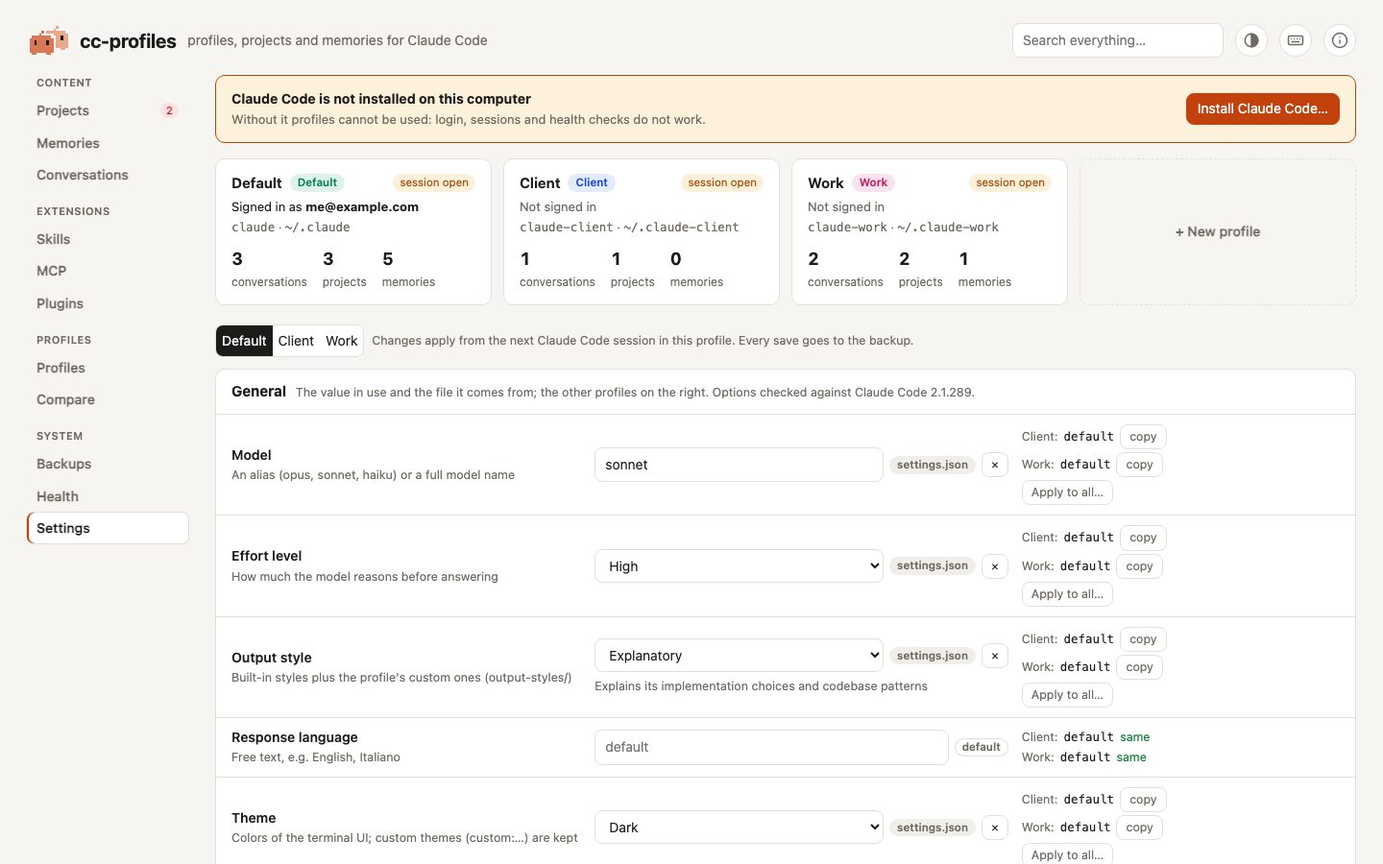
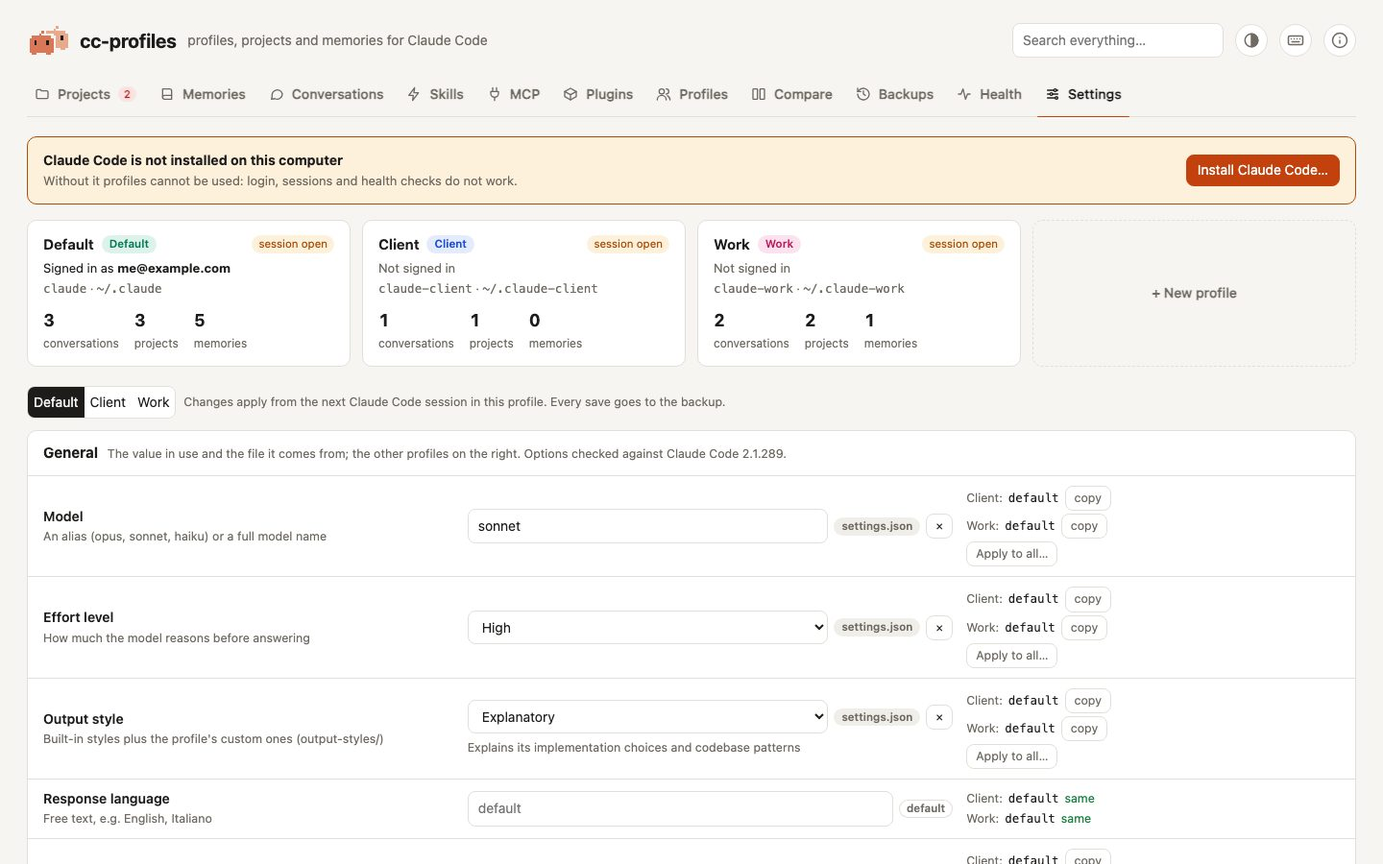
Tabs in one row under the header, like GitHub's underline nav, with a More menu

diff --git a/src/cc_profiles/static/index.html b/src/cc_profiles/static/index.html
@@ -52,7 +52,7 @@ body { margin: 0; background: var(--bg); color: var(--text);
 button, input, select, textarea { font: inherit; color: inherit; }
 .wrap { padding: 24px 28px 80px; }
 header { display: flex; align-items: center; gap: 12px; margin-bottom: 18px; }
-h1 { font-size: 20px; margin: 0; letter-spacing: -0.01em; display: flex; align-items: center; gap: 10px; }
+h1 { font-size: 20px; margin: 0; letter-spacing: -0.01em; display: flex; align-items: center; gap: 10px; white-space: nowrap; flex-shrink: 0; }
 .logo { width: 45px; height: 30px; flex: none; }
 .lg-front { fill: var(--logo); } .lg-back { fill: var(--logo-back); } .lg-eye { fill: var(--logo-eye); }
 header .sub { color: var(--muted); }
@@ -84,34 +84,25 @@ mark { background: var(--accent-soft); color: inherit; border-radius: 3px; paddi
 .live { font-size: 11.5px; color: var(--warn); background: var(--warn-soft); padding: 1px 7px; border-radius: 99px; margin-left: auto; }
 code, .mono { font-family: var(--mono); font-size: 12.5px; }
 
-/* navigation: a sidebar of four groups from 1100px, a group switcher plus one row of tabs below */
-.shell { display: grid; grid-template-columns: 168px minmax(0, 1fr); grid-template-areas: "nav lead" "nav main"; column-gap: 28px; align-items: start; }
-.shell > .lead { grid-area: lead; }
-.shell > .navcol { grid-area: nav; position: sticky; top: 16px; }
-.shell > main { grid-area: main; min-width: 0; }
-nav.tabs { display: grid; gap: 14px; }
-nav.tabs .ngroup { display: grid; gap: 1px; }
-nav.tabs .nlabel { font-size: 11px; font-weight: 600; text-transform: uppercase; letter-spacing: .04em; color: var(--muted); padding: 0 10px 4px; }
-nav.tabs button { display: flex; align-items: center; justify-content: space-between; gap: 6px; text-align: left; background: none; border: 0;
-  padding: 6px 10px; border-radius: 7px; cursor: pointer; color: var(--muted); font-weight: 550; }
-nav.tabs button:hover { color: var(--text); background: var(--panel-2); }
-nav.tabs button.on { color: var(--text); background: var(--panel); box-shadow: inset 2px 0 0 var(--accent), 0 0 0 1px var(--line); }
+/* navigation: an underline nav like GitHub's, right under the header. Tabs that do not
+   fit the window move into the More menu; the active tab always stays in the row. */
+nav.tabs { display: flex; align-items: center; gap: 8px; box-shadow: inset 0 -1px 0 var(--line); margin: -4px 0 20px; }
+.tabrow { display: flex; gap: 8px; min-width: 0; overflow: hidden; }
+nav.tabs button[data-tab], #tabs-more { position: relative; display: flex; align-items: center; gap: 8px; height: 32px; margin: 8px 0;
+  padding: 0 8px; background: none; border: 0; border-radius: 6px; cursor: pointer; color: var(--muted); font-weight: 550; white-space: nowrap; }
+nav.tabs button[data-tab]:hover, #tabs-more:hover, #tabs-more[aria-expanded="true"] { color: var(--text); background: var(--panel-2); }
+nav.tabs button.on { color: var(--text); }
+.tabrow button.on::after, #tabs-more.on::after { content: ""; position: absolute; left: 0; right: 0; bottom: -9px; height: 2px; border-radius: 2px; background: var(--accent); }
+nav.tabs .ti { width: 16px; height: 16px; flex: none; }
 nav.tabs .count { font-size: 11px; background: var(--err-soft); color: var(--err); border-radius: 99px; padding: 0 6px; }
-.seg.ngroups { display: none; }
-.ngroups .gdot { display: inline-block; width: 6px; height: 6px; border-radius: 50%; background: var(--err); margin-left: 5px; vertical-align: 2px; }
+.more { position: relative; flex: none; }
+.more .gdot { display: inline-block; width: 6px; height: 6px; border-radius: 50%; background: var(--err); }
+.moremenu { position: absolute; right: 0; top: calc(100% + 2px); z-index: 15; min-width: 200px; display: grid; gap: 2px; padding: 6px;
+  background: var(--panel); border: 1px solid var(--line); border-radius: 10px; box-shadow: 0 12px 40px rgba(0,0,0,.18); }
+.moremenu[hidden], .more .gdot[hidden] { display: none; }
+nav.tabs .moremenu button[data-tab] { margin: 0; width: 100%; }
+.moremenu button.on { background: var(--panel-2); }
 .vh { position: absolute; width: 1px; height: 1px; overflow: hidden; clip: rect(0 0 0 0); white-space: nowrap; }
-@media (max-width: 1099px) {
-  .shell { display: block; }
-  .shell > .navcol { position: static; }
-  .seg.ngroups { display: flex; margin-bottom: 6px; }
-  .ngroups button { padding: 6px 4px; font-weight: 550; white-space: nowrap; }
-  nav.tabs { display: flex; box-shadow: inset 0 -1px 0 var(--line); margin-bottom: 16px; overflow-x: auto; }
-  nav.tabs .ngroup, nav.tabs .nlabel { display: none; }
-  nav.tabs .ngroup.cur { display: flex; gap: 4px; }
-  nav.tabs button { justify-content: flex-start; padding: 9px 14px; border-radius: 0; border-bottom: 2px solid transparent; white-space: nowrap; }
-  nav.tabs button:hover { background: none; }
-  nav.tabs button.on { background: none; box-shadow: none; border-bottom-color: var(--accent); }
-}
 kbd { font-family: var(--mono); font-size: 12px; padding: 1px 6px; border: 1px solid var(--line); border-bottom-width: 2px; border-radius: 5px; background: var(--panel-2); }
 .keys { display: grid; grid-template-columns: max-content 1fr; gap: 6px 14px; margin: 0; align-items: center; }
 .keys dt { white-space: nowrap; } .keys dd { margin: 0; color: var(--muted); }
@@ -338,43 +329,28 @@ pre.log { background: #141311; color: #e8e6e1; border-radius: 8px; padding: 12px
     <button class="iconbtn" id="about-btn" title="About Claude Code on this computer" aria-label="About Claude Code on this computer">
       <svg viewBox="0 0 24 24" fill="none" stroke="currentColor" stroke-width="2" stroke-linecap="round" stroke-linejoin="round" aria-hidden="true"><circle cx="12" cy="12" r="10"/><path d="M12 16v-4"/><path d="M12 8h.01"/></svg>
     </button></header>
-  <div class="shell">
-    <div class="lead">
-      <div id="notice"></div>
-      <section class="profiles" id="profiles" aria-label="Profiles"></section>
+  <nav class="tabs" id="tabs" aria-label="Sections">
+    <div class="tabrow">
+      <button data-tab="projects" class="on" aria-current="page"><svg class="ti" viewBox="0 0 24 24" fill="none" stroke="currentColor" stroke-width="2" stroke-linecap="round" stroke-linejoin="round" aria-hidden="true"><path d="M3 7a2 2 0 0 1 2-2h4l2 2h8a2 2 0 0 1 2 2v8a2 2 0 0 1-2 2H5a2 2 0 0 1-2-2z"/></svg><span class="tl">Projects</span><span class="count" id="cnt-projects" hidden></span></button>
+      <button data-tab="memories"><svg class="ti" viewBox="0 0 24 24" fill="none" stroke="currentColor" stroke-width="2" stroke-linecap="round" stroke-linejoin="round" aria-hidden="true"><path d="M5 4h11a3 3 0 0 1 3 3v13H8a3 3 0 0 1-3-3z"/><path d="M5 17a3 3 0 0 1 3-3h11"/></svg><span class="tl">Memories</span></button>
+      <button data-tab="conversations"><svg class="ti" viewBox="0 0 24 24" fill="none" stroke="currentColor" stroke-width="2" stroke-linecap="round" stroke-linejoin="round" aria-hidden="true"><path d="M21 12a8 8 0 0 1-11.6 7.1L4 20l1-4.6A8 8 0 1 1 21 12z"/></svg><span class="tl">Conversations</span></button>
+      <button data-tab="skills"><svg class="ti" viewBox="0 0 24 24" fill="none" stroke="currentColor" stroke-width="2" stroke-linecap="round" stroke-linejoin="round" aria-hidden="true"><path d="M13 2 4 14h7l-1 8 9-12h-7z"/></svg><span class="tl">Skills</span></button>
+      <button data-tab="mcp"><svg class="ti" viewBox="0 0 24 24" fill="none" stroke="currentColor" stroke-width="2" stroke-linecap="round" stroke-linejoin="round" aria-hidden="true"><path d="M9 2v6M15 2v6"/><path d="M6 8h12v3a6 6 0 0 1-12 0z"/><path d="M12 17v5"/></svg><span class="tl">MCP</span></button>
+      <button data-tab="plugins"><svg class="ti" viewBox="0 0 24 24" fill="none" stroke="currentColor" stroke-width="2" stroke-linecap="round" stroke-linejoin="round" aria-hidden="true"><path d="M21 8 12 3 3 8v8l9 5 9-5z"/><path d="m3 8 9 5 9-5M12 13v8"/></svg><span class="tl">Plugins</span></button>
+      <button data-tab="profiles"><svg class="ti" viewBox="0 0 24 24" fill="none" stroke="currentColor" stroke-width="2" stroke-linecap="round" stroke-linejoin="round" aria-hidden="true"><circle cx="9" cy="8" r="4"/><path d="M2 21a7 7 0 0 1 14 0"/><path d="M16 4a4 4 0 0 1 0 8M22 21a7 7 0 0 0-4-6.3"/></svg><span class="tl">Profiles</span></button>
+      <button data-tab="compare"><svg class="ti" viewBox="0 0 24 24" fill="none" stroke="currentColor" stroke-width="2" stroke-linecap="round" stroke-linejoin="round" aria-hidden="true"><rect x="3" y="4" width="7" height="16" rx="1"/><rect x="14" y="4" width="7" height="16" rx="1"/></svg><span class="tl">Compare</span></button>
+      <button data-tab="backups"><svg class="ti" viewBox="0 0 24 24" fill="none" stroke="currentColor" stroke-width="2" stroke-linecap="round" stroke-linejoin="round" aria-hidden="true"><path d="M3 12a9 9 0 1 0 3-6.7L3 8"/><path d="M3 3v5h5"/><path d="M12 7v5l3 2"/></svg><span class="tl">Backups</span></button>
+      <button data-tab="health"><svg class="ti" viewBox="0 0 24 24" fill="none" stroke="currentColor" stroke-width="2" stroke-linecap="round" stroke-linejoin="round" aria-hidden="true"><path d="M3 12h4l3-8 4 16 3-8h4"/></svg><span class="tl">Health</span><span class="count" id="cnt-health" hidden></span></button>
+      <button data-tab="settings"><svg class="ti" viewBox="0 0 24 24" fill="none" stroke="currentColor" stroke-width="2" stroke-linecap="round" stroke-linejoin="round" aria-hidden="true"><path d="M4 6h10M18 6h2M4 12h4M12 12h8M4 18h12M20 18h0"/><circle cx="16" cy="6" r="2"/><circle cx="10" cy="12" r="2"/><circle cx="18" cy="18" r="2"/></svg><span class="tl">Settings</span></button>
     </div>
-    <div class="navcol">
-      <!-- narrow screens only: pick a group, its tabs show under it -->
-      <div class="seg ngroups" id="ngroups" role="group" aria-label="Section groups">
-        <button data-group="content" class="on" aria-pressed="true">Content<span class="gdot" hidden><span class="vh"> (needs attention)</span></span></button>
-        <button data-group="extensions" aria-pressed="false">Extensions<span class="gdot" hidden><span class="vh"> (needs attention)</span></span></button>
-        <button data-group="profiles" aria-pressed="false">Profiles<span class="gdot" hidden><span class="vh"> (needs attention)</span></span></button>
-        <button data-group="system" aria-pressed="false">System<span class="gdot" hidden><span class="vh"> (needs attention)</span></span></button>
-      </div>
-      <nav class="tabs" id="tabs" aria-label="Sections">
-        <div class="ngroup cur" data-group="content" role="group" aria-labelledby="ng-content"><div class="nlabel" id="ng-content">Content</div>
-          <button data-tab="projects" class="on" aria-current="page">Projects <span class="count" id="cnt-projects" hidden></span></button>
-          <button data-tab="memories">Memories</button>
-          <button data-tab="conversations">Conversations</button>
-        </div>
-        <div class="ngroup" data-group="extensions" role="group" aria-labelledby="ng-extensions"><div class="nlabel" id="ng-extensions">Extensions</div>
-          <button data-tab="skills">Skills</button>
-          <button data-tab="mcp">MCP</button>
-          <button data-tab="plugins">Plugins</button>
-        </div>
-        <div class="ngroup" data-group="profiles" role="group" aria-labelledby="ng-profiles"><div class="nlabel" id="ng-profiles">Profiles</div>
-          <button data-tab="profiles">Profiles</button>
-          <button data-tab="compare">Compare</button>
-        </div>
-        <div class="ngroup" data-group="system" role="group" aria-labelledby="ng-system"><div class="nlabel" id="ng-system">System</div>
-          <button data-tab="backups">Backups</button>
-          <button data-tab="health">Health <span class="count" id="cnt-health" hidden></span></button>
-          <button data-tab="settings">Settings</button>
-        </div>
-      </nav>
+    <div class="more" hidden>
+      <button id="tabs-more" aria-expanded="false" aria-controls="moremenu">More<span class="gdot" hidden><span class="vh"> (needs attention)</span></span><svg class="ti" viewBox="0 0 24 24" fill="none" stroke="currentColor" stroke-width="2" stroke-linecap="round" stroke-linejoin="round" aria-hidden="true"><path d="m6 9 6 6 6-6"/></svg></button>
+      <div class="moremenu" id="moremenu" hidden></div>
     </div>
-    <main id="main"></main>
-  </div>
+  </nav>
+  <div id="notice"></div>
+  <section class="profiles" id="profiles" aria-label="Profiles"></section>
+  <main id="main"></main>
 </div>
 <div class="toasts" id="toasts"></div>
 
@@ -1708,36 +1684,49 @@ async function deleteBackup(name) {
 }
 
 // ---------- navigation and keyboard shortcuts ----------
-// Tabs sit in four groups: a sidebar on wide screens; below 1100px the group
-// switcher (#ngroups) shows one group's tabs at a time and remembers the last tab of each.
-const NAV = { group: "content", last: {} };
+// Tabs sit in one row, like GitHub's underline nav. The ones that do not fit go into
+// the More menu, in order; the active tab always stays in the row.
+const TAB_BUTTONS = [...document.querySelectorAll("#tabs button[data-tab]")];
 function markTab(tab) {
-  document.querySelectorAll("#tabs button").forEach(b => {
+  TAB_BUTTONS.forEach(b => {
     const on = b.dataset.tab === tab;
     b.classList.toggle("on", on);
     if (on) b.setAttribute("aria-current", "page"); else b.removeAttribute("aria-current");
   });
-  const g = $(`#tabs button[data-tab="${tab}"]`)?.closest(".ngroup")?.dataset.group;
-  if (g) { NAV.group = g; NAV.last[g] = tab; }
-  syncNav();
+  showMore(false);
+  layoutTabs();
 }
-function syncNav() {
-  document.querySelectorAll("#tabs .ngroup").forEach(n => n.classList.toggle("cur", n.dataset.group === NAV.group));
-  document.querySelectorAll("#ngroups button").forEach(b => {
-    const g = b.dataset.group, cur = g === NAV.group;
-    b.classList.toggle("on", cur); b.setAttribute("aria-pressed", cur);
-    $(".gdot", b).hidden = cur || !$(`#tabs .ngroup[data-group="${g}"] .count:not([hidden])`);
-  });
+function layoutTabs() {
+  const nav = $("#tabs"), row = $(".tabrow", nav), menu = $("#moremenu"), more = $(".more", nav);
+  TAB_BUTTONS.forEach(b => row.appendChild(b));
+  more.hidden = row.scrollWidth <= row.clientWidth;
+  if (more.hidden) { menu.replaceChildren(); return; }
+  const gap = 8, avail = nav.clientWidth - more.offsetWidth - gap, w = b => b.offsetWidth + gap;
+  const active = TAB_BUTTONS.find(b => b.classList.contains("on"));
+  let used = active ? w(active) : 0, full = false;
+  const keep = new Set(active ? [active] : []);
+  for (const b of TAB_BUTTONS) {
+    if (b === active) continue;
+    if (!full && used + w(b) <= avail) { keep.add(b); used += w(b); } else full = true;
+  }
+  TAB_BUTTONS.forEach(b => (keep.has(b) ? row : menu).appendChild(b));
+  $("#tabs-more").classList.toggle("on", !!menu.querySelector(".on"));
+  $(".gdot", more).hidden = !menu.querySelector(".count:not([hidden])");
 }
-function openGroup(g) {
-  const tab = NAV.last[g] || $(`#tabs .ngroup[data-group="${g}"] button`).dataset.tab;
-  $(`#tabs button[data-tab="${tab}"]`).click();
+const syncNav = layoutTabs;
+function showMore(open) {
+  $("#moremenu").hidden = !open;
+  $("#tabs-more").setAttribute("aria-expanded", open);
 }
+$("#tabs-more").onclick = e => { e.stopPropagation(); showMore($("#moremenu").hidden); };
+document.addEventListener("click", e => { if (!e.target.closest(".more")) showMore(false); });
+document.addEventListener("keydown", e => { if (e.key === "Escape" && !$("#moremenu").hidden) { showMore(false); $("#tabs-more").focus(); } });
+new ResizeObserver(() => layoutTabs()).observe($("#tabs"));
 // g then a letter: the tab's initial, or a distinctive letter when the initial is taken
 const GO_KEYS = [["p", "projects"], ["m", "memories"], ["c", "conversations"], ["s", "skills"], ["x", "mcp"], ["l", "plugins"],
                  ["r", "profiles"], ["o", "compare"], ["b", "backups"], ["h", "health"], ["t", "settings"]];
 function showKeys() {
-  const name = tab => $(`#tabs button[data-tab="${tab}"]`).firstChild.textContent.trim();
+  const name = tab => $(`#tabs button[data-tab="${tab}"] .tl`).textContent;
   const row = (k, what) => `<dt>${k}</dt><dd>${what}</dd>`;
   modal({ title: "Keyboard shortcuts", cancel: "Close",
     sub: "They work anywhere except while you type in a field or a dialog is open.",
@@ -1749,7 +1738,7 @@ document.addEventListener("keydown", e => {
   if (e.defaultPrevented || e.metaKey || e.ctrlKey || e.altKey || e.isComposing) return;
   const el = e.target;
   if (el.isContentEditable || el.closest?.("input, textarea, select")) return;
-  if (document.querySelector(".modal-bg, .drawer, .popover")) return;
+  if (document.querySelector(".modal-bg, .drawer, .popover, .moremenu:not([hidden])")) return;
   if (goPending && Date.now() - goPending < 1500) {
     goPending = 0;
     const tab = GO_KEYS.find(([k]) => k === e.key.toLowerCase())?.[1];
@@ -1787,7 +1776,6 @@ document.addEventListener("click", async e => {
   if (t.dataset.pexport) return exportProfile(t.dataset.pexport);
   if (t.hasAttribute("data-pimport")) return importProfile();
   if (t.dataset.pext) { S.tab = t.dataset.ext; markTab(S.tab); return loadExt(t.dataset.pext); }
-  if (t.dataset.group) return openGroup(t.dataset.group);
   if (t.dataset.extprof) return loadExt(t.dataset.extprof);
   if (t.dataset.pdel) return deleteProfile(t.dataset.pdel);
   if (t.dataset.restore) return restoreBackup(t.dataset.restore);

diff --git a/tests/test_ui.py b/tests/test_ui.py
@@ -40,7 +40,7 @@ def page_on_sandbox(tmp_path):
 
 def test_every_tab_renders_without_errors(page_on_sandbox):
     page, errors = page_on_sandbox
-    tabs = page.eval_on_selector_all("#tabs button", "bs => bs.map(b => b.dataset.tab)")
+    tabs = page.eval_on_selector_all("#tabs button[data-tab]", "bs => bs.map(b => b.dataset.tab)")
     assert len(tabs) >= 8
     for tab in tabs:
         page.click(f'#tabs button[data-tab="{tab}"]')
@@ -65,24 +65,28 @@ def test_theme_and_about_panels_open(page_on_sandbox):
 
 
 def open_tab(page, tab):
+    if not page.is_visible(f'#tabs button[data-tab="{tab}"]'):  # in the More menu on narrow screens
+        page.click("#tabs-more")
     page.click(f'#tabs button[data-tab="{tab}"]')
     page.wait_for_function("() => { const m = document.querySelector('#main');"
                            " return m.children.length && !m.querySelector('.spinner'); }", timeout=10000)
 
 
-def test_narrow_screens_show_one_group_at_a_time(page_on_sandbox):
+def test_tabs_that_do_not_fit_go_into_the_more_menu(page_on_sandbox):
     page, errors = page_on_sandbox
+    assert not page.is_visible("#tabs-more")  # 1440px: every tab fits
     page.set_viewport_size({"width": 375, "height": 800})
-    assert page.is_visible("#ngroups")
-    visible = page.eval_on_selector_all("#tabs button", "bs => bs.filter(b => b.offsetParent).map(b => b.dataset.tab)")
-    assert visible == ["projects", "memories", "conversations"]
-    page.click('#ngroups [data-group="system"]')
-    page.wait_for_selector('#tabs button[data-tab="backups"].on')
-    assert page.get_attribute('#ngroups [data-group="system"]', "aria-pressed") == "true"
-    assert not page.is_visible('#tabs button[data-tab="projects"]')
+    page.wait_for_selector("#tabs-more")
+    row = lambda: page.eval_on_selector_all(".tabrow button", "bs => bs.map(b => b.dataset.tab)")
+    assert row()[0] == "projects" and "settings" not in row()
+    page.click("#tabs-more")
+    page.click('#moremenu button[data-tab="health"]')
+    page.wait_for_selector('.tabrow button[data-tab="health"].on')  # the active tab moves into the row
+    assert page.is_hidden("#moremenu") and page.get_attribute("#tabs-more", "aria-expanded") == "false"
     assert page.evaluate("document.documentElement.scrollWidth") <= 375  # nothing scrolls sideways
     page.set_viewport_size({"width": 1440, "height": 900})
-    assert not page.is_visible("#ngroups") and page.is_visible('#tabs button[data-tab="projects"]')
+    page.wait_for_selector("#tabs-more", state="hidden")
+    assert len(row()) == 11
     assert errors == []
 
 
@@ -122,7 +126,7 @@ def test_no_serious_accessibility_violations(page_on_sandbox, theme):
     page, errors = page_on_sandbox
     page.evaluate(f"setTheme('{theme}')")
     found = {}
-    for tab in page.eval_on_selector_all("#tabs button", "bs => bs.map(b => b.dataset.tab)"):
+    for tab in page.eval_on_selector_all("#tabs button[data-tab]", "bs => bs.map(b => b.dataset.tab)"):
         open_tab(page, tab)
         found[tab] = axe_violations(page)
     page.keyboard.press("?")
@@ -136,6 +140,7 @@ def test_no_serious_accessibility_violations(page_on_sandbox, theme):
     found["about panel"] = axe_violations(page)
     page.keyboard.press("Escape")
     page.set_viewport_size({"width": 375, "height": 800})
+    page.wait_for_selector("#tabs-more")  # the row has made room for the More menu
     open_tab(page, "health")
     found["phone width"] = axe_violations(page)
     found = {t: v for t, v in found.items() if v}

diff --git a/scripts/make_screenshots.py b/scripts/make_screenshots.py
@@ -65,6 +65,7 @@ class Shooter:
         self.js("document.querySelectorAll('.toast').forEach(t => t.remove());")
 
     def shot(self, path, keep_toasts=False):
+        self.page.mouse.move(VIEW["width"] - 1, VIEW["height"] - 1)  # no hover left on what was clicked
         if not keep_toasts:
             self.settle()
         else:

diff --git a/DESIGN.md b/DESIGN.md
@@ -56,7 +56,7 @@ Rules:
 | Component | Class | Notes |
 |---|---|---|
 | Profile card | `.pcard` | name and badge, monospace meta line, three big numbers; `.live` for "session open". `.pcard.add` is the dashed "+ New profile" variant |
-| Navigation | `.shell`, `nav.tabs#tabs` > `.ngroup` | eleven tabs in four groups (Content, Extensions, Profiles, System), each with an uppercase `.nlabel`. From 1100px a 168px sticky sidebar on the left: the active tab sits on `--panel` with a 2px orange bar at its left. Below, `#ngroups` (a `.seg`) picks the group and only that group's tabs show, in one row with the orange underline; a group remembers its last tab, and a red dot marks a hidden group whose tab has a counter. Tab buttons keep `data-tab` and get `aria-current="page"` when active; a red `.count` shows the number of problems |
+| Navigation | `nav.tabs#tabs` > `.tabrow`, `.more` | an underline nav like GitHub's, right under the header: each tab is a 16px stroke icon (`.ti`) plus its name, muted until hovered (a `--panel-2` rounded background) or active (full text color and a 2px orange underline on the nav's bottom line). Tabs that do not fit move, in order, into the **More** menu (`#moremenu`); the active tab always stays in the row, More is underlined when the active tab is in it, and a red dot marks it when a tab inside has a counter. Tab buttons keep `data-tab` and get `aria-current="page"` when active; a red `.count` shows the number of problems |
 | Keyboard shortcuts | `#keys-btn`, `showKeys()` | `/` search, `g` + letter for a tab, `?` the list in a modal. Ignored while typing in a field or with a modal, drawer or popover open. The header button is hidden on touch screens (`hover: none`) |
 | Filters | `.chip` / `.chip.on` | the active chip is inverted (background `--text`) |
 | Buttons | `.btn` | `.primary` (orange, at most one per row or modal), `.danger` (red text), `.small` |
@@ -102,6 +102,6 @@ Rules:
 
 ## Responsive
 
-There are two breakpoints. At **1100px** the navigation changes: a sidebar with the four groups above it, the group switcher with one row of tabs below it (see *Navigation*); at 375px the switcher and the longest group still fit without scrolling sideways.
+The navigation needs no breakpoint: it measures itself and moves what does not fit into **More** (see *Navigation*), so nothing scrolls sideways even at 375px.
 
 At **820px** the memories grid becomes one column, search fields go full width, settings rows and permission columns stack, and tables scroll horizontally inside their container (the page itself never does). Profile and health cards adapt by themselves with `grid-template-columns: repeat(auto-fit, minmax(…))`.

diff --git a/README.md b/README.md
@@ -135,7 +135,7 @@ cc-profiles
 - 🩺 **Health**: login status, config validity, broken links, memory indexes, and projects whose folder disappeared, with candidate folders to relink them to.
 - 🔍 **Search everything**: one field searches projects, memories, skills, MCP servers and `CLAUDE.md` in every profile, and opens what you pick.
 - ⚖ **Compare two profiles**: settings, permissions, skills, MCP servers, `CLAUDE.md` and plugins side by side, with one-click copies of what differs.
-- 🧭 **Fast to get around**: tabs grouped in a sidebar (Content, Extensions, Profiles, System), keyboard shortcuts (`/` to search, `g` then a letter to open a tab, `?` for the list), and quick even on homes with thousands of projects.
+- 🧭 **Fast to get around**: keyboard shortcuts (`/` to search, `g` then a letter to open a tab, `?` for the list), and quick even on homes with thousands of projects.
 - ⌨ **Inside Claude Code**: `/cc-profiles` opens the app from any session; `cc-profiles label` shows the active profile in your status line.
 - 🌓 **Light and dark**: the theme button next to (i) picks System, Light or Dark; System follows your operating system.
 - 🔒 **Local and private**: listens on `127.0.0.1` only, with a token on every request. Nothing is sent anywhere unless you click to check for updates or to install Claude Code.

diff --git a/docs/getting-started.md b/docs/getting-started.md
@@ -92,7 +92,7 @@ Each new profile must log in once: run its command and use `/login`. Credentials
 
 ## Finding your way
 
-The tabs are in four groups: **Content** (Projects, Memories, Conversations), **Extensions** (Skills, MCP, Plugins), **Profiles** (Profiles, Compare) and **System** (Backups, Health, Settings). On a wide window they form a sidebar; on a narrow one, pick the group first and then the tab.
+The tabs sit in one row under the header. On a narrow window the ones that do not fit are in the **More** menu at the end of the row.
 
 ### Keyboard shortcuts
 

diff --git a/CHANGELOG.md b/CHANGELOG.md
@@ -5,6 +5,12 @@ The format follows [Keep a Changelog](https://keepachangelog.com/en/1.1.0/), and
 
 ## [Unreleased]
 
+### Changed
+- The tabs are a single row under the header again, styled like GitHub's: an icon before each name, an orange underline on the active one. The sidebar and the group switcher of 0.4.0 are gone: on a narrow window the tabs that do not fit go into a **More** menu, and the active tab always stays in view.
+
+### Fixed
+- The *cc-profiles* title no longer wraps at its hyphen on medium-width windows.
+
 ## [0.4.0] - 2026-10-05
 
 ### Added
